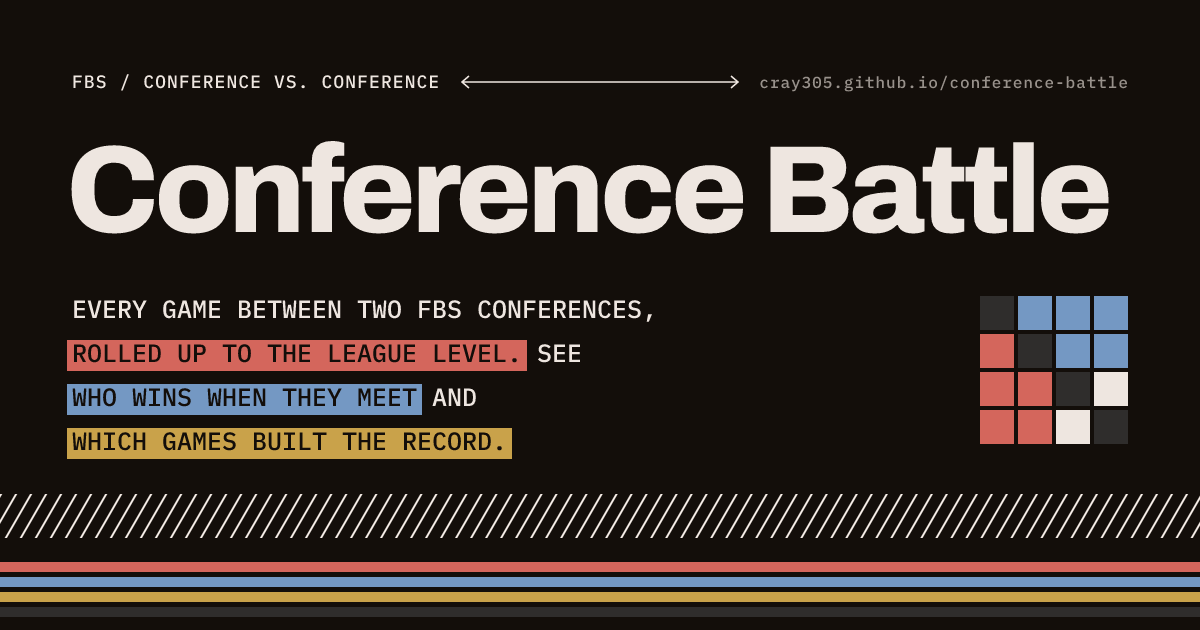
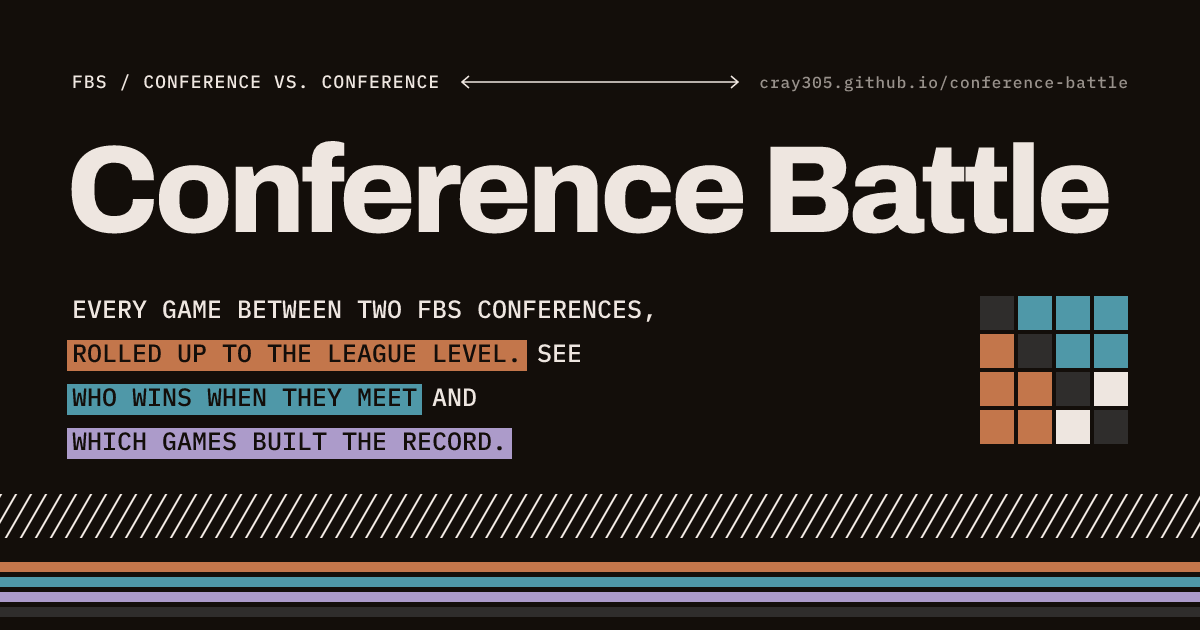
Switch to the Pylon colors
Wins are teal, losses burnt orange and highlights lilac, replacing the
red, blue and gold. The tokens are renamed to --win, --loss and --accent
to match their jobs, focus and selection outlines use a darker lilac,
and the dark-mode in-between shades mix more of each color so they
don't turn muddy. The favicon and link preview image follow.

Claude-Session: https://claude.ai/code/session_017tMms3BZWTfs5TNQfj6zA1

Changed region(s): [[0.0, 0.9048, 1.0, 0.9651], [0.0308, 0.6032, 0.4317, 0.754], [0.8325, 0.4524, 0.9558, 0.6032]]

diff --git a/src/styles.css b/src/styles.css
@@ -5,10 +5,10 @@
   --ink-2: #554b43;
   --muted: #766d66;
   --line: #e7e2de;
-  --red: #ef8a80;
-  --blue: #85b0e1;
-  --gold: #f2cd72;
-  --ring: #af7c00;
+  --loss: #d98a5f;
+  --win: #5fa8b8;
+  --accent: #c3b1e1;
+  --ring: #7f5fab;
   --grey: #efefef;
   --on-accent: #2a1f17;
   --on-strong: #2a1f17;
@@ -25,14 +25,14 @@
     --ink-2: #cdc6c0;
     --muted: #98918b;
     --line: #2d2824;
-    --red: #d4665c;
-    --blue: #7498c3;
-    --gold: #c9a24a;
-    --ring: #c9a24a;
+    --loss: #c3764b;
+    --win: #4f98a8;
+    --accent: #ac9bca;
+    --ring: #ac9bca;
     --grey: #2f2d2c;
     --on-accent: #130e0a;
     --on-strong: #130e0a;
-    --lean: 38%;
+    --lean: 50%;
   }
 }
 :root[data-theme="dark"] {
@@ -42,14 +42,14 @@
   --ink-2: #cdc6c0;
   --muted: #98918b;
   --line: #2d2824;
-  --red: #d4665c;
-  --blue: #7498c3;
-  --gold: #c9a24a;
-  --ring: #c9a24a;
+  --loss: #c3764b;
+  --win: #4f98a8;
+  --accent: #ac9bca;
+  --ring: #ac9bca;
   --grey: #2f2d2c;
   --on-accent: #130e0a;
   --on-strong: #130e0a;
-  --lean: 38%;
+  --lean: 50%;
 }
 
 * { box-sizing: border-box; }
@@ -72,7 +72,7 @@ body {
 .masthead { display: grid; grid-template-columns: minmax(0, 1fr) auto; gap: 26px 48px; padding-block: 48px 0; align-items: start; }
 .kicker { grid-column: 1 / -1; display: flex; align-items: center; gap: 14px; font-size: 13px; font-weight: 500; letter-spacing: .06em; text-transform: uppercase; }
 .kicker svg { flex: 0 1 220px; min-width: 60px; height: 10px; }
-.kicker .tag { margin-left: auto; background: var(--gold); color: var(--on-accent); padding: 1px 8px; font-size: 11px; white-space: nowrap; }
+.kicker .tag { margin-left: auto; background: var(--accent); color: var(--on-accent); padding: 1px 8px; font-size: 11px; white-space: nowrap; }
 h1 {
   grid-column: 1 / -1;
   font-family: var(--sans); font-weight: 800; letter-spacing: -.035em;
@@ -83,7 +83,7 @@ h1 {
   text-transform: uppercase; text-wrap: pretty; letter-spacing: .02em;
 }
 .hl { padding: 1px 4px; color: var(--on-accent); -webkit-box-decoration-break: clone; box-decoration-break: clone; }
-.hl.r { background: var(--red); } .hl.b { background: var(--blue); } .hl.g { background: var(--gold); }
+.hl.r { background: var(--loss); } .hl.b { background: var(--win); } .hl.g { background: var(--accent); }
 .ball { width: 150px; height: auto; color: var(--ink); }
 @media (max-width: 720px) {
   .masthead { grid-template-columns: minmax(0, 1fr); padding-top: 32px; }
@@ -118,7 +118,7 @@ select {
   font: 500 12px/1 var(--mono); letter-spacing: .04em; text-transform: uppercase; padding: 9px 10px; cursor: pointer;
   border: 1px solid var(--ink); border-radius: 0; background: var(--bg); color: var(--ink);
 }
-.presets button[aria-pressed="true"] { background: var(--gold); border-color: var(--gold); color: var(--on-accent); }
+.presets button[aria-pressed="true"] { background: var(--accent); border-color: var(--accent); color: var(--on-accent); }
 .chips button { color: var(--muted); border: 1px dashed var(--muted); }
 .chips button[aria-pressed="true"] { border-style: solid; border-color: var(--ink); color: var(--ink); }
 .chips button:hover { color: var(--ink); }
@@ -158,17 +158,17 @@ table.matrix { border-collapse: separate; border-spacing: 2px; font-variant-nume
 .matrix thead th.corner { text-align: left; text-transform: uppercase; letter-spacing: .06em; }
 .matrix tbody th { text-align: left; font-size: 12.5px; font-weight: 600; white-space: nowrap; padding: 0 14px 0 0; text-transform: uppercase; letter-spacing: .02em; }
 .matrix tbody th small { display: block; font-size: 10.5px; font-weight: 400; color: var(--muted); letter-spacing: 0; }
-.matrix th.hl-axis { color: var(--ink); box-shadow: inset 0 -2px 0 var(--gold); }
+.matrix th.hl-axis { color: var(--ink); box-shadow: inset 0 -2px 0 var(--accent); }
 .cell {
   position: relative; height: 46px; min-width: 50px; padding: 0; text-align: center; cursor: pointer;
   font-size: 12px; font-weight: 500; color: var(--ink); white-space: nowrap; padding-inline: 2px;
 }
 .cell .pct { display: block; font-size: 10px; font-weight: 400; opacity: .85; }
-.b-w2 { background: var(--blue); color: var(--on-strong); }
-.b-w1 { background: color-mix(in srgb, var(--blue) var(--lean), var(--bg)); }
+.b-w2 { background: var(--win); color: var(--on-strong); }
+.b-w1 { background: color-mix(in srgb, var(--win) var(--lean), var(--bg)); }
 .b-0  { background: var(--grey); }
-.b-l1 { background: color-mix(in srgb, var(--red) var(--lean), var(--bg)); }
-.b-l2 { background: var(--red); color: var(--on-strong); }
+.b-l1 { background: color-mix(in srgb, var(--loss) var(--lean), var(--bg)); }
+.b-l2 { background: var(--loss); color: var(--on-strong); }
 .cell.thin::after {
   content: ""; position: absolute; inset: 0; pointer-events: none;
   background: repeating-linear-gradient(-60deg, currentColor 0 1px, transparent 1px 6px); opacity: .28;
@@ -201,7 +201,7 @@ table.matrix { border-collapse: separate; border-spacing: 2px; font-variant-nume
 .tug { display: grid; gap: 6px; }
 .tug-bar { display: flex; height: 10px; gap: 2px; }
 .tug-bar i { display: block; height: 100%; }
-.tug-bar .w { background: var(--blue); } .tug-bar .l { background: var(--red); flex: 1; }
+.tug-bar .w { background: var(--win); } .tug-bar .l { background: var(--loss); flex: 1; }
 .tug-labels { display: flex; justify-content: space-between; font-size: 11px; color: var(--muted); text-transform: uppercase; letter-spacing: .04em; }
 .verdict { margin: 0; font-size: 13px; font-weight: 500; text-transform: uppercase; letter-spacing: .02em; line-height: 1.6; }
 .splits { display: grid; grid-template-columns: repeat(3, 1fr); border-block: 1px solid var(--ink); }
@@ -211,7 +211,7 @@ table.matrix { border-collapse: separate; border-spacing: 2px; font-variant-nume
 .agate ol { list-style: none; margin: 8px 0 0; padding: 0; font-size: 12.5px; }
 .agate li { display: grid; grid-template-columns: 40px 1fr auto; gap: 8px; padding: 7px 0; border-top: 1px solid var(--line); align-items: baseline; }
 .agate .yr { color: var(--muted); }
-.agate .tag { font-size: 10px; letter-spacing: .06em; text-transform: uppercase; background: var(--gold); color: var(--on-accent); padding: 0 5px; }
+.agate .tag { font-size: 10px; letter-spacing: .06em; text-transform: uppercase; background: var(--accent); color: var(--on-accent); padding: 0 5px; }
 .agate .w { font-weight: 600; }
 .agate .l { color: var(--ink-2); }
 
@@ -227,7 +227,7 @@ table.standings { width: 100%; border-collapse: collapse; font-variant-numeric: 
 .standings td.name small { font-weight: 400; color: var(--muted); font-size: 10.5px; margin-left: 8px; }
 .standings td.barcell { width: 34%; }
 .pctbar { position: relative; height: 12px; background: var(--grey); }
-.pctbar i { position: absolute; left: 0; top: 0; bottom: 0; background: var(--blue); }
+.pctbar i { position: absolute; left: 0; top: 0; bottom: 0; background: var(--win); }
 .pctbar::after { content: ""; position: absolute; left: 50%; top: -4px; bottom: -4px; border-left: 1px solid var(--ink); }
 .standings tbody tr:hover td { background: var(--grey); }
 
@@ -277,7 +277,7 @@ table.standings { width: 100%; border-collapse: collapse; font-variant-numeric: 
   .readout .sw, .focus .sw { box-shadow: inset 0 0 0 1px color-mix(in srgb, var(--ink) 15%, transparent); }
   .readout .sw { flex: none; width: 14px; height: 14px; position: relative; }
   .readout span { flex: 1; min-width: 0; line-height: 1.4; }
-  .readout a { flex: none; color: var(--ink); font-weight: 600; text-decoration: none; border-bottom: 1px solid var(--gold); }
+  .readout a { flex: none; color: var(--ink); font-weight: 600; text-decoration: none; border-bottom: 1px solid var(--accent); }
 
   /* One-conference list */
   .matrix-sec.focused .matrix-scroll, .matrix-sec.focused .readout, .matrix-sec.focused .note.phone-only { display: none; }
@@ -317,13 +317,13 @@ table.standings { width: 100%; border-collapse: collapse; font-variant-numeric: 
 /* Footer */
 .stripes { display: grid; gap: 3px; }
 .stripes i { display: block; height: 5px; }
-.stripes i:nth-child(1) { background: var(--red); }
-.stripes i:nth-child(2) { background: var(--blue); height: 4px; }
-.stripes i:nth-child(3) { background: var(--gold); height: 4px; }
+.stripes i:nth-child(1) { background: var(--loss); }
+.stripes i:nth-child(2) { background: var(--win); height: 4px; }
+.stripes i:nth-child(3) { background: var(--accent); height: 4px; }
 .stripes i:nth-child(4) { background: var(--grey); height: 5px; }
 footer { display: flex; flex-wrap: wrap; justify-content: space-between; gap: 8px 24px; font-size: 11.5px; color: var(--muted); text-transform: uppercase; letter-spacing: .04em; margin-top: -18px; }
 footer a { color: inherit; text-decoration: none; border-bottom: 1px solid var(--line); }
-footer a:hover { color: var(--ink); border-color: var(--gold); }
+footer a:hover { color: var(--ink); border-color: var(--accent); }
 
 /* Loading */
 .status { display: grid; gap: 14px; }
